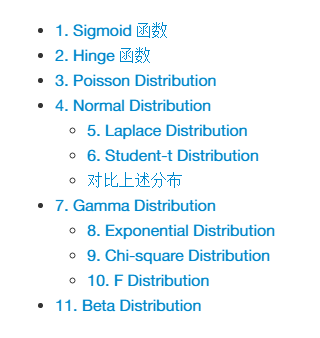
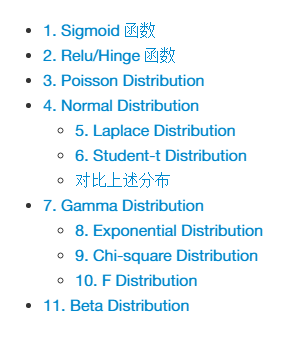
add spectral clustering code(matlab) and penalty function sample

Changed region(s): [[0.0915, 0.355, 0.9153, 0.9172], [0.0915, 0.0592, 0.7017, 0.3254], [0.0915, 0.858, 0.122, 0.8876]]

diff --git a/distributions.md b/distributions.md
@@ -8,7 +8,7 @@ $$
 f(x) = \frac{1}{1+e^{-x}}
 $$
 
-```python {cmd:true, matplotlib:true}
+```python {id:'sigmoid',cmd:true, matplotlib:true}
 import matplotlib.pyplot as plt
 import numpy as np
 x=np.linspace(-5,5,1000)  #1000个x值
@@ -24,35 +24,33 @@ plt.legend()
 plt.show()
 ```
 
-# 2. Hinge 函数
+# 2. Relu/Hinge 函数
 
-公式
-
-$$
-f(a,b,x) = 
-\begin{cases}
-0, & \text{x<a} \\
-b(x-a), & \text{x>=a} \\
-\end{cases}
-$$
-
-```python {cmd:true, matplotlib:true}
+```python {id:"relu",cmd:true, matplotlib:true}
 import matplotlib.pyplot as plt
 import numpy as np
 
-def hingefunc(x,mu,sigma):
-    pdf = np.exp(-((x - mu)**2)/(2*sigma**2)) / (sigma * np.sqrt(2*np.pi))
-    return pdf
+x = np.linspace(-1,2,100)
 
-mu = 1
-sigma = 10
-x = np.arange(-10,10,0.1)
-y = hingefunc(x, mu, sigma)
-plt.plot(x,y,label='hinge function')
+def hingefunc(x,a):
+    tmp = a-x
+    return np.maximum(tmp,0.0,tmp)
+
+def relufunc(x,a):
+    tmp = x-a
+    return np.maximum(tmp,0.0,tmp)
+
 plt.axvline(0, color='black')
-plt.title('Hinge function')
+plt.axhline(0, color='black')
+a=0.5
+y = hingefunc(x, a)
+plt.plot(x,y,label='$hingefunc(a=0.5)$')
+y = relufunc(x,a)
+plt.plot(x,y,label='relu function(a=0.5)')
+plt.title('Relu/Hinge function')
 plt.xlabel('in/out')
 plt.ylabel('f')
+plt.ylim(-0.1)
 plt.legend()
 plt.show()
 ```
@@ -67,7 +65,7 @@ f(x|\lambda) = e^{-\lambda}\frac{\lambda^x}{x!} \\
 \lambda > 0
 $$
 
-```python {cmd:true, matplotlib:true}
+```python {id:"poisson",cmd:true, matplotlib:true}
 import matplotlib.pyplot as plt
 import numpy as np
 import scipy.stats as stats
@@ -91,15 +89,16 @@ $$
 f(x|\mu,\sigma^2) = \frac{1}{\sqrt{2\pi}\sigma}\exp{\lbrace -\frac{1}{2\sigma^2}(x-\mu)^2 \rbrace}
 $$
 
-```python {cmd:true, matplotlib:true}
+```python {id:"normal",cmd:true, matplotlib:true}
 import matplotlib.pyplot as plt
 import numpy as np
 import scipy.stats as stats
 
-x = np.linspace(-10,10,100)
+x = np.linspace(0,1,100)
 mu = 1
 sigma = 20
-y = stats.norm.pdf(x, loc=mu, scale=sigma)
+y = stats.norm.pdf(x, loc=0.33, scale=0.08) + 2*stats.norm.pdf(x, loc=1, scale=0.16)
+#y = np.sin(x*2*np.pi)+1.5*x
 plt.plot(x,y,'r-',label='$pdf$')
 plt.axvline(0, color='black')
 plt.title('Normal distribution')
@@ -370,7 +369,6 @@ Beta(\theta|a,b) = \frac{1}{B(a,b)}\theta^{a-1}(1-\theta)^{b-1} \\
 B(a,b) = \frac{\Gamma(a)\Gamma(b)}{\Gamma(a+b)}
 $$
 
-## test different beta function
 ```python {cmd:true, matplotlib:true}
 import matplotlib.pyplot as plt
 import numpy as np
@@ -411,4 +409,19 @@ plt2.legend()
 plt3.legend()
 #输出
 plt.show()
+```
+
+```python {cmd:true,matplotlib:true}
+import matplotlib.pyplot as plt
+import numpy as np
+import scipy.stats as stats
+
+x = np.linspace(0,1,2000)
+
+
+plt.grid(True)
+plt.legend()
+
+plt.show()
+
 ```

diff --git a/penalty_function.md b/penalty_function.md
@@ -1,0 +1,51 @@
+
+# Penalty Function
+
+This is the penalty function
+## Function formula
+
+公式如下：
+
+$$
+f(x) = \frac{g(x)}{g(x_{max})} \\
+where\ g(x) = N(\mu_1,\sigma_1)+\frac{\sigma_2}{\sigma_1}N(\mu_2,\sigma_2) \\
+\mu_1\ is\ the\ mean\ value\  of\  the\ gauss\ function\ with\ more\ sharpe\ crest.\\
+x_{max}\ usually\ is\ set\ as\ \mu_1\\
+as\ a\  result\  f(x) \in [0,1]
+$$
+
+## Matlab code
+
+if you have a <font color='green'><i>matlab</i></font> rather than a <font color='red'><i>octave</i></font>, change the the "cmd" value to "matlab" in this markdown file.
+
+```matlab {id:"Penalty Function",cmd:"octave",output:"markdown"}
+
+function y = bi_gauss_pdf(x,mu1,sigma1,mu2,sigma2)
+    y = normpdf(x,mu1,sigma1)+normpdf(x,mu2,sigma2)*sigma2/sigma1;
+end
+
+%% below for plot test
+x = 0:0.01:1;
+mu1 = 0.33;
+sigma1 = (-mu1+0.5)/3;
+mu2 = 1.0;
+sigma2 = (mu2-0.5)/3;
+y = bi_gauss_pdf(x,mu1,sigma1,mu2,sigma2);
+y_max = bi_gauss_pdf(mu1,mu1,sigma1,mu2,sigma2);
+y = y./y_max;
+
+plot(x,y);
+axis([0 1.2 0 1.2]);
+set(gca,'xtick',0:0.1:1);
+set(gca,'ytick',0:0.1:2);
+hold on;
+plot([0 1.2],[1 1],'--');
+plot([1 1],[0 1.2],'k-');
+
+grid on;
+
+%% wonderful interactive method to end showing.
+if waitforbuttonpress
+    return;
+end
+```
